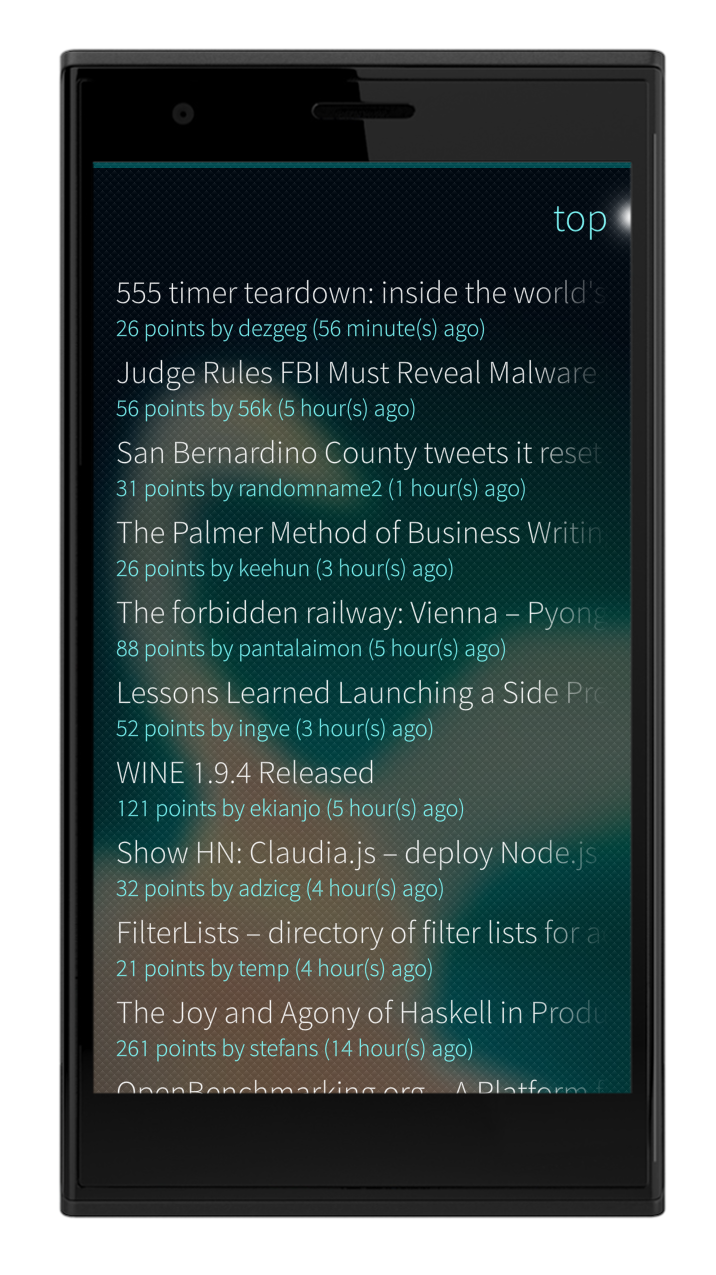
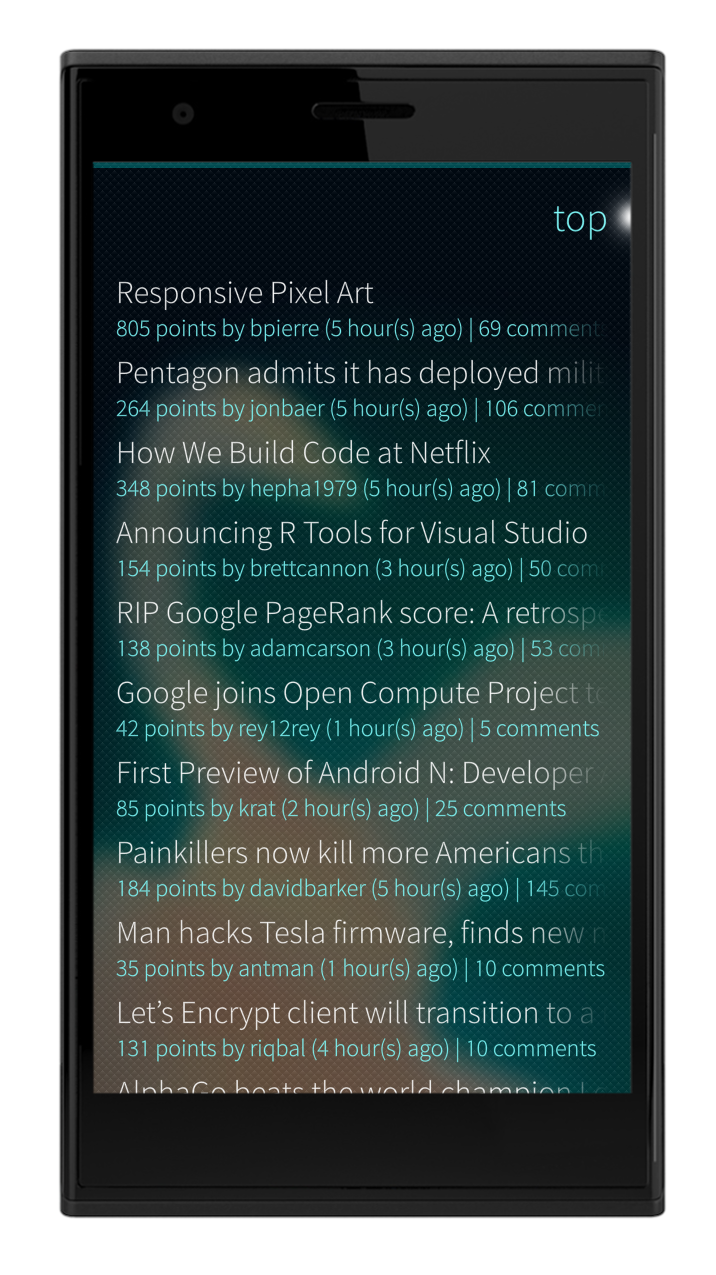
update screenshots

Changed region(s): [[0.1536, 0.2141, 0.8296, 0.8565]]

diff --git a/README.md b/README.md
@@ -13,7 +13,8 @@ Supported types of items:
 - show
 - job
 
-![](https://raw.githubusercontent.com/neversun/sailfish-hackernews/master/screenshot1.png) 
+![](https://raw.githubusercontent.com/neversun/sailfish-hackernews/master/screenshot1.png)
+![](https://raw.githubusercontent.com/neversun/sailfish-hackernews/master/screenshot2.png) 
 
 ## License
 
